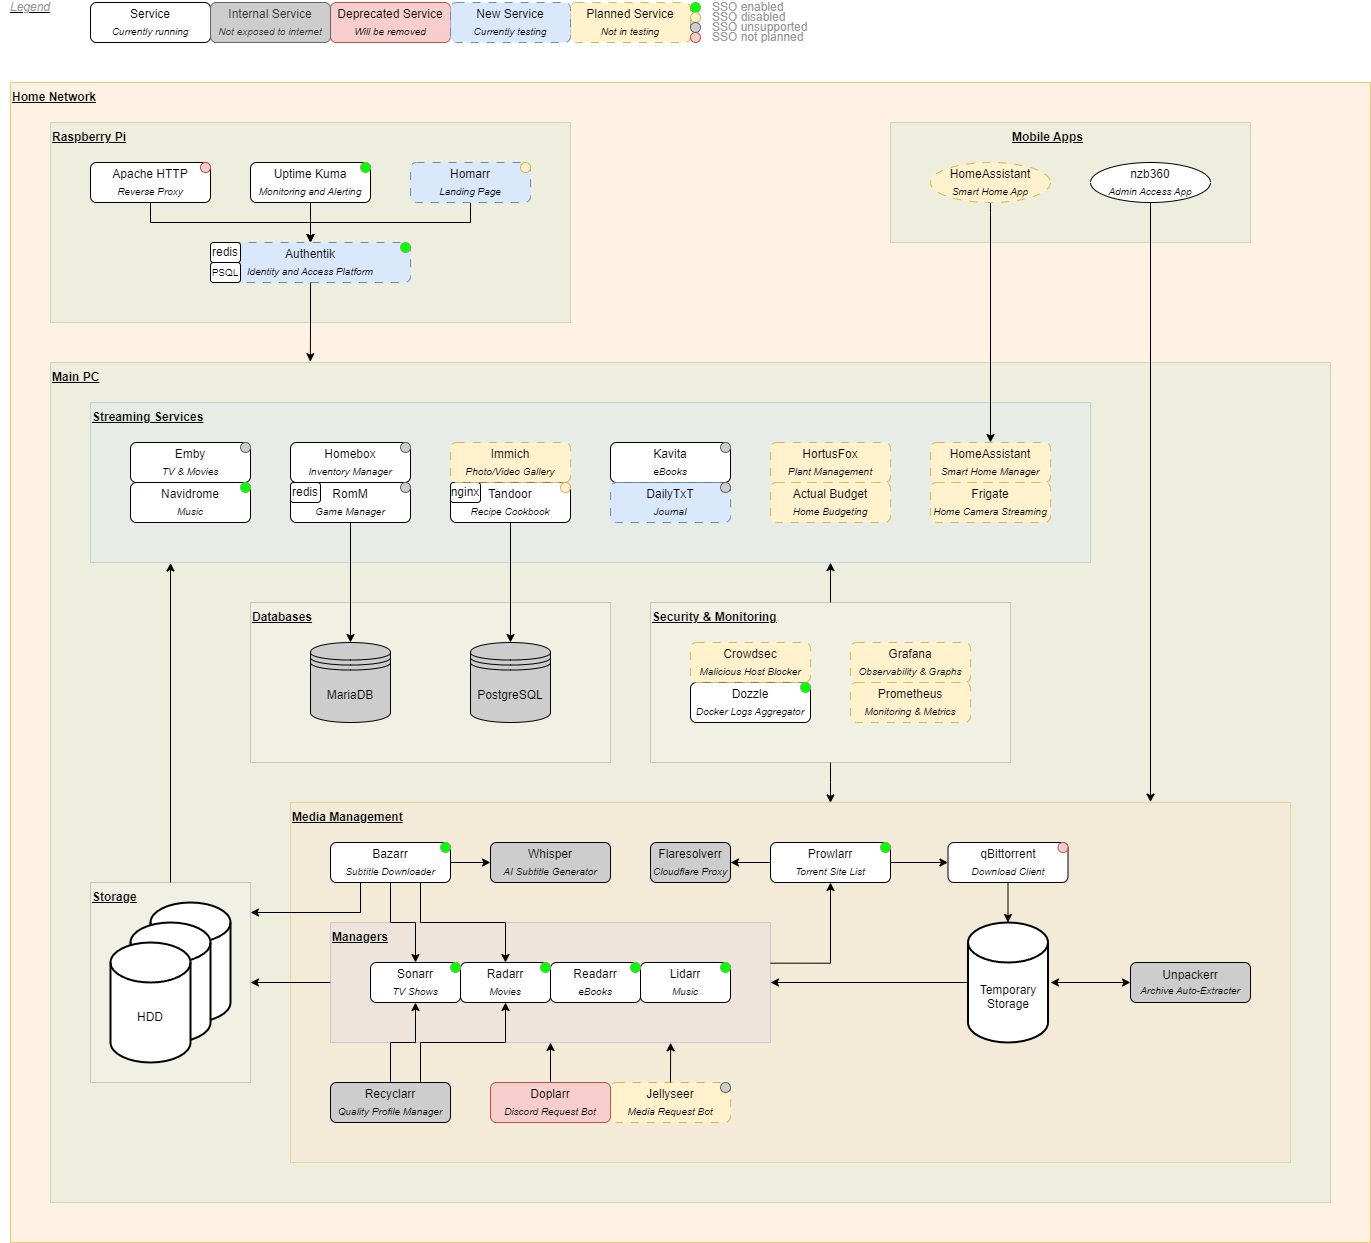
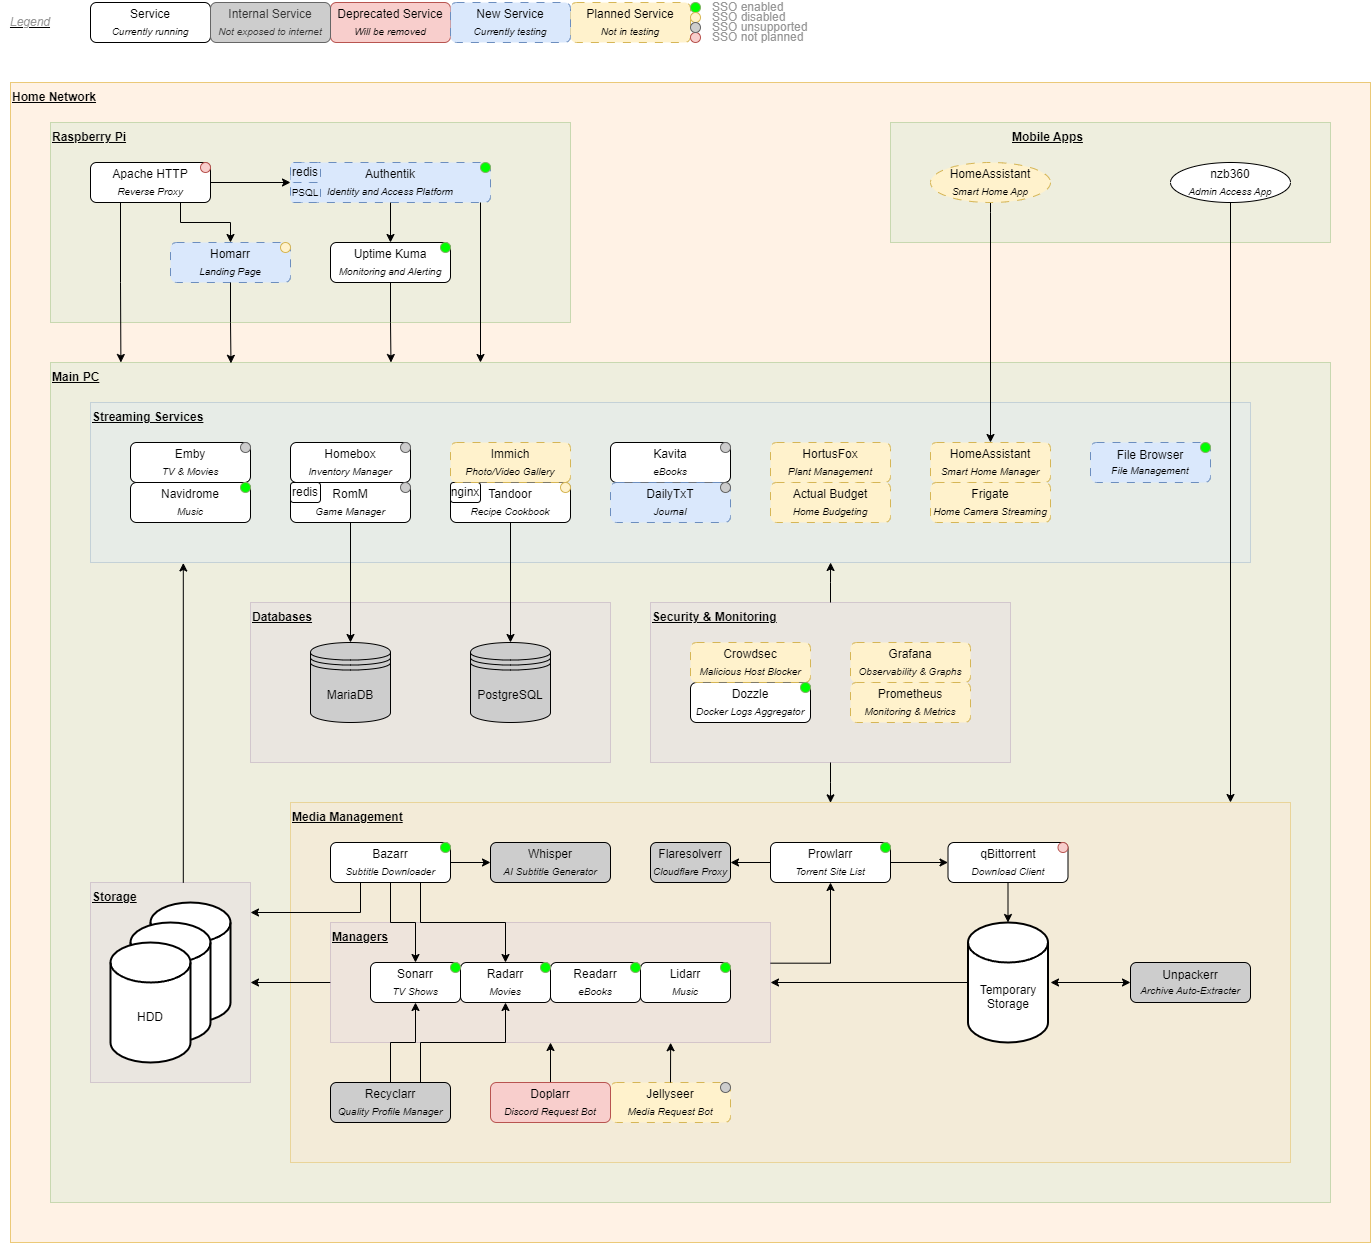
Added File Browser, for document access

diff --git a/README.md b/README.md
@@ -313,8 +313,9 @@ TODO:
 - Bazarr
 - Navidrome
 
-Following have no auth of their own (both disabled explicitly), using Authentik as only config
+Following have no auth of their own (both disabled explicitly), using Authentik as the only auth:
 - Dozzle
+- File Browser
 - Uptime-Kuma
 
 ----
